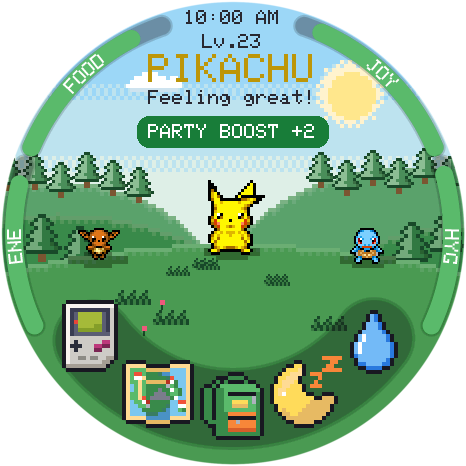
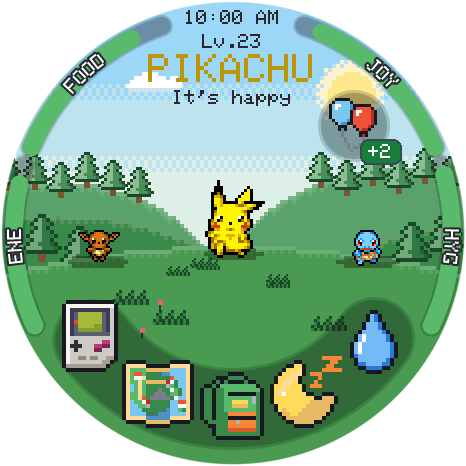
README and docs: Not now and evolving on a hold, the round Party Boost button, auto-update from any idle page
buddies.png retaken: the balloons' Party Boost button and the outlined need bars.
docs/EVOLUTION.md's line comes from tools/gen_dex.py, so both change together.

diff --git a/tools/gen_dex.py b/tools/gen_dex.py
@@ -58,7 +58,7 @@ def write_evolution_chart():
         'slower than its caterpillar, and Poliwrath is slower than Poliwhirl.\n',
         '- **Evolves at** is the level it is ready to evolve at, from Pokémon Red and Blue (evolution stones '
         'and trades are levels here). Each care mistake puts it off by a level, and the **Evolve** button only '
-        'shows while all four needs are at 40 or more. **Keep** waits, and the button comes back an hour later.\n',
+        'shows while all four needs are at 40 or more. **Not now** keeps its form, and the button doesn\'t come back by itself: hold your Pokémon for 3 seconds whenever you want it to evolve.\n',
         '- The card shows your own Pokémon\'s ATK, DEF and SPD: they grow from these with its level and '
         'training. HP is how many hits it can take in a battle.\n',
         '- After evolving, it learns moves on the new form\'s schedule, which is sometimes a few levels later: '

diff --git a/README.md b/README.md
@@ -145,7 +145,7 @@ See [How it works](docs/HOW_IT_WORKS.md) for charts of what every action, game, 
 | Do this | What happens |
 |---|---|
 | **Tap the Pokémon** | Pet it |
-| **Hold your finger on it** | The menu: a ring opens round it. Slide onto one and lift, or let go and tap one. Keep holding still for 3 seconds to let your Pokémon go (or bring back its goodbye, if you chose to stay together) |
+| **Hold your finger on it** | The menu: a ring opens round it. Slide onto one and lift, or let go and tap one. Keep holding still for 3 seconds to let your Pokémon go (or bring back its goodbye, if you chose to stay together). When it's ready to evolve, the same hold offers **Evolve** too |
 | **Tap the icons along the bottom** | From left to right: play mini games, Travel to hunt, open the backpack in the middle (berries, candy and your Repels), turn the light off for bed, or give it a bath |
 | **Stats** in the ring | Its card: profile, battle stats, training, progress, and a page for each item |
 | **Tap its name on the card** (✏) | Rename it |
@@ -177,7 +177,7 @@ Evolving makes your Pokémon stronger. Its stats come from its species' base HP,
 
 The first time, Bulbasaur, Charmander, Squirtle and Pikachu walk toward you through the Field. Tap one to stop them and choose it.
 
-When your Pokémon is ready to evolve, a red **Evolve** button appears under it: tap it to evolve, or **Keep** to stay as it is, and the button comes back an hour later. [Moves](docs/MOVES.md) shows the level each species evolves at.
+When your Pokémon is ready to evolve, a red **Evolve** button appears under it, with a grey **Not now**: tap **Evolve** to evolve, or **Not now** to keep its form. It won't ask again; whenever you change your mind, hold your finger on it for 3 seconds and tap **Evolve**. [Moves](docs/MOVES.md) shows the level each species evolves at.
 
 A fully evolved Pokémon that is at least 3 days old offers a goodbye. If you choose to stay together, it won't ask again: whenever you're ready, hold your finger on it for 3 seconds to bring the goodbye back. You can also let any Pokémon go the same way. Either way, it turns, walks off up the hill and over it, and you choose your next one, who walks in from the distance.
 
@@ -265,7 +265,7 @@ Tap the **handheld** icon, on the left, for the mini games: cartridges on a Game
 
 ### Buddies
 
-If another PokeKnomiGochi joins the same Wi-Fi network, its Pokémon comes over and walks beside yours, and a green **PARTY BOOST** button appears at the top. Up to 4 buddies can visit at once. Whenever buddies or a daily visitor are around, yours stands in the middle and a size bigger than the rest, so you can always tell which one is yours, even among Pokémon of the same species; the others stand at the sides. Tap a buddy's Pokémon to open the buddy menu for it, and swipe left or right there to switch buddies. Having a buddy earns the **First buddy** medal, and a full party of 5 Pokémon on screen earns **Party of 5**.
+If another PokeKnomiGochi joins the same Wi-Fi network, its Pokémon comes over and walks beside yours, and a round Party Boost button (two balloons and **+2**) appears in the sky to the right of yours. Up to 4 buddies can visit at once. Whenever buddies or a daily visitor are around, yours stands in the middle and a size bigger than the rest, so you can always tell which one is yours, even among Pokémon of the same species; the others stand at the sides. Tap a buddy's Pokémon to open the buddy menu for it, and swipe left or right there to switch buddies. Having a buddy earns the **First buddy** medal, and a full party of 5 Pokémon on screen earns **Party of 5**.
 
 - **Battle:** a friendly match where each of you picks your own moves. It makes your Pokémon happy, with no training gained and no energy lost.
 - **Trade:** each of you picks a Pokémon from your Pokédex, and a green dot marks ones your buddy doesn't have yet. Once you both confirm, you swap: the one you gave leaves your Pokédex. A shiny is its own square, so you can trade it and keep the regular one. Your own partner can't be traded, so with only one Pokémon, Trade is greyed out. Changed your mind? The **✕** backs out at any point before the swap, and nothing changes hands.
@@ -281,7 +281,7 @@ Your Pokémon does better with company. While at least one buddy or the daily vi
 - **Energy drains a quarter slower.**
 - **+2 ATK, DEF and SPD** in wild battles and PokeDungeon.
 
-It's the same boost however many friends are around. Tap **PARTY BOOST** to see who's here and what you get. Tap a friend there to see its stats: level, HP, ATK, DEF and SPD, and a buddy's Pokédex count. Swipe from there to a buddy's Battle, Trade and Play menu, and the ✕ goes back to Party Boost. Tapping a buddy's Pokémon on the main screen still opens its menu first, with its stats a swipe away. While the boost is on, the Battle Stats page shows each stat with its **+2**. Battles between buddies don't use it, since both sides would have it.
+It's the same boost however many friends are around. Tap the Party Boost button to see who's here and what you get. Tap a friend there to see its stats: level, HP, ATK, DEF and SPD, and a buddy's Pokédex count. Swipe from there to a buddy's Battle, Trade and Play menu, and the ✕ goes back to Party Boost. Tapping a buddy's Pokémon on the main screen still opens its menu first, with its stats a swipe away. While the boost is on, the Battle Stats page shows each stat with its **+2**. Battles between buddies don't use it, since both sides would have it.
 
 | ![The Party Boost screen: Eevee and Squirtle visiting, energy drain -25% and ATK DEF SPD +2](docs/images/v2/party-boost.png) | ![A buddy's Pikachu: its level, HP, ATK, DEF and SPD and its Pokédex, with Battle, Trade and Play a page on](docs/images/v2/friend-stats.png) | ![The visitor's stats: a Magikarp, the candy it brought and its 60 minutes](docs/images/v2/visitor-stats.png) |
 |:---:|:---:|:---:|
@@ -307,7 +307,7 @@ Changing the clock doesn't speed anything up. Time away only counts by network t
 
 ### Updates over Wi-Fi
 
-Once it's on Wi-Fi, the Knomi looks for a new version two minutes after it starts and then every hour, while the screen is dimmed. With **Auto-update** on (the switch on the second page of **Settings** in the ring; it's on unless you turn it off), it installs the new version by itself the next time nobody is using it during the day: the home screen showing and dimmed, your Pokémon awake, nothing being played with a buddy. To update by hand, open **Settings** in the ring, turn to the next page and tap **Check for update**. If a new version is out, the button changes to **Update to v…**: tap it and wait about a minute while it downloads and restarts. Your Pokémon, Pokédex and Wi-Fi are kept. If the new version ever fails to start, the Knomi goes back to the one it had.
+Once it's on Wi-Fi, the Knomi looks for a new version two minutes after it starts and then every hour, while the screen is dimmed. With **Auto-update** on (the switch on the second page of **Settings** in the ring; it's on unless you turn it off), it installs the new version by itself the next time nobody is using it: the screen dimmed on any page but a game, a battle or a question, between 7 am and 8 pm (10 am to 6 pm while your Pokémon sleeps). Knomis on 2.1.0 or older only install by themselves from the home screen with the Pokémon awake, so 2.1.1 may need one update by hand. To update by hand, open **Settings** in the ring, turn to the next page and tap **Check for update**. If a new version is out, the button changes to **Update to v…**: tap it and wait about a minute while it downloads and restarts. Your Pokémon, Pokédex and Wi-Fi are kept. If the new version ever fails to start, the Knomi goes back to the one it had.
 
 <p align="center"><img src="docs/images/v2/settings.png" alt="The settings page: Change Wi-Fi, Check for update, and the Auto-update switch, on" width="240"></p>
 

diff --git a/docs/HOW_IT_WORKS.md b/docs/HOW_IT_WORKS.md
@@ -109,7 +109,7 @@ While at least one buddy or the daily visitor is on your screen:
 | ⚡ **Energy drain** | A quarter less: it drops three minutes in four instead of every minute (overweight too) |
 | 💪 **ATK, DEF, SPD** | +2 each in wild battles and PokeDungeon (not in battles between buddies) |
 
-It's the same with one friend or five, so extra devices don't stack it. Tap the green **PARTY BOOST** button for the list of who's here. Tap a friend for its stats (level, HP, ATK, DEF, SPD, and a buddy's Pokédex count), then swipe to a buddy's Battle, Trade and Play menu. The ✕ goes back to the list.
+It's the same with one friend or five, so extra devices don't stack it. Tap the round Party Boost button (two balloons and **+2**, to the right of your Pokémon) for the list of who's here. Tap a friend for its stats (level, HP, ATK, DEF, SPD, and a buddy's Pokédex count), then swipe to a buddy's Battle, Trade and Play menu. The ✕ goes back to the list.
 
 The **daily visitor** brings a candy (a third one that day) and stays 60 minutes. It only arrives while yours is awake, but once it's there it stays even if yours goes to sleep, its minutes still running. It steps out while four buddies fill the row and comes back the same day, and its time survives a restart. Leftover minutes end at midnight. Tap it to see its stats.
 
@@ -273,7 +273,7 @@ The game counts its own minutes, and only a clock nobody can set adds time away.
 | 🛡 **Defense** | +1 for every 6 hours with all four needs at 40 or above (asleep counts, short dips are forgiven) |
 | ⚠ **Care mistake** | A need at 10 or below counts as a mistake, at most once an hour, and costs 1 💞 |
 | 🏃 **Running away** | With all four needs at 0 for an hour, it's ready to leave. One bit of care resets the clock. |
-| 🔄 **Evolving** | At its evolution level (one level later for each care mistake), with all four needs at 40 or more, a red **Evolve** button appears. Tap it to evolve, or **Keep** to stay as it is: the button comes back an hour later. Tapping away from the question leaves the button there. Every species' level is in [Moves](MOVES.md), and [Evolution stats](EVOLUTION.md) shows what each evolution adds. |
+| 🔄 **Evolving** | At its evolution level (one level later for each care mistake), with all four needs at 40 or more, a red **Evolve** button appears with a grey **Not now** under it. Tap **Evolve** to evolve, or **Not now** to keep its form: the button doesn't come back by itself. Whenever you're ready, hold your finger on your Pokémon for 3 seconds and tap **Evolve** in the box above the release question. Tapping anywhere else while the buttons are up does nothing, so a slip can't decide for you. Every species' level is in [Moves](MOVES.md), and [Evolution stats](EVOLUTION.md) shows what each evolution adds. |
 | 👋 **Goodbye** | A fully evolved Pokémon offers a goodbye from 3 days old. Choose to stay together and it won't ask again; hold your finger on it for 3 seconds whenever you're ready (a shorter hold opens the ring menu). It walks off over the hill. |
 | 🐾 **Next Pokémon** | The four starters (Bulbasaur, Charmander, Squirtle and Pikachu) until a Pokémon has been offered its goodbye. After that, after a goodbye, letting one go or a runaway, choose any first form from your Pokédex (Pikachu, not Raichu), with its stars. A shiny you have is its own square, and picking it gives you that shiny ✨; there's no random shiny. It walks in from the distance. |
 

diff --git a/docs/EVOLUTION.md b/docs/EVOLUTION.md
@@ -5,7 +5,7 @@
 Every Pokémon's base **HP**, **ATK**, **DEF** and **SPD**, line by line, and what each evolution adds. Your Pokémon's stats come from its species' base numbers, and evolving keeps its level and all its training, so it gets the bigger numbers the moment it evolves.
 
 - The number in brackets is what evolving adds to that stat. A few evolutions lower one: a cocoon is slower than its caterpillar, and Poliwrath is slower than Poliwhirl.
-- **Evolves at** is the level it is ready to evolve at, from Pokémon Red and Blue (evolution stones and trades are levels here). Each care mistake puts it off by a level, and the **Evolve** button only shows while all four needs are at 40 or more. **Keep** waits, and the button comes back an hour later.
+- **Evolves at** is the level it is ready to evolve at, from Pokémon Red and Blue (evolution stones and trades are levels here). Each care mistake puts it off by a level, and the **Evolve** button only shows while all four needs are at 40 or more. **Not now** keeps its form, and the button doesn't come back by itself: hold your Pokémon for 3 seconds whenever you want it to evolve.
 - The card shows your own Pokémon's ATK, DEF and SPD: they grow from these with its level and training. HP is how many hits it can take in a battle.
 - After evolving, it learns moves on the new form's schedule, which is sometimes a few levels later: [Moves](MOVES.md) has every Pokémon's moves by level.
 
